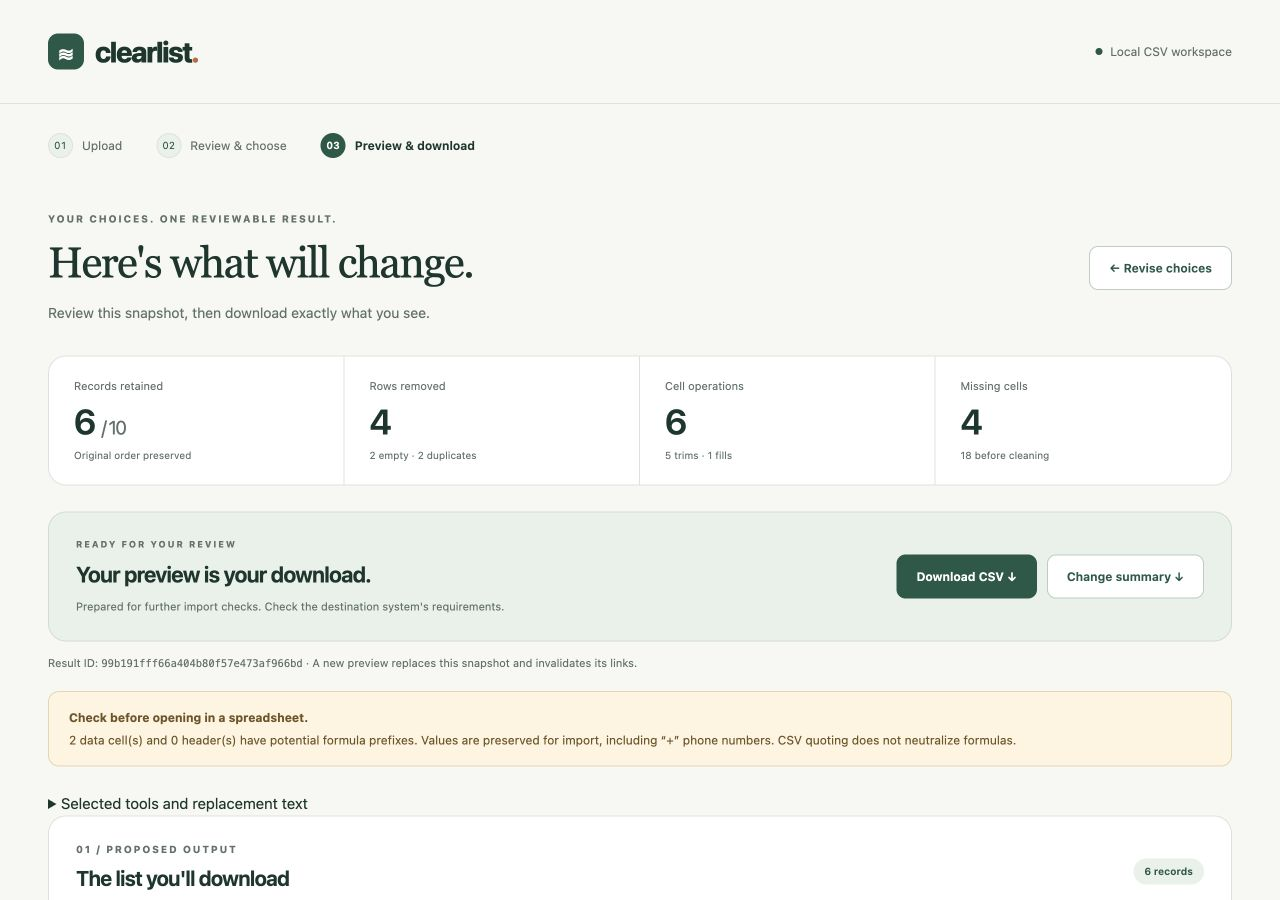
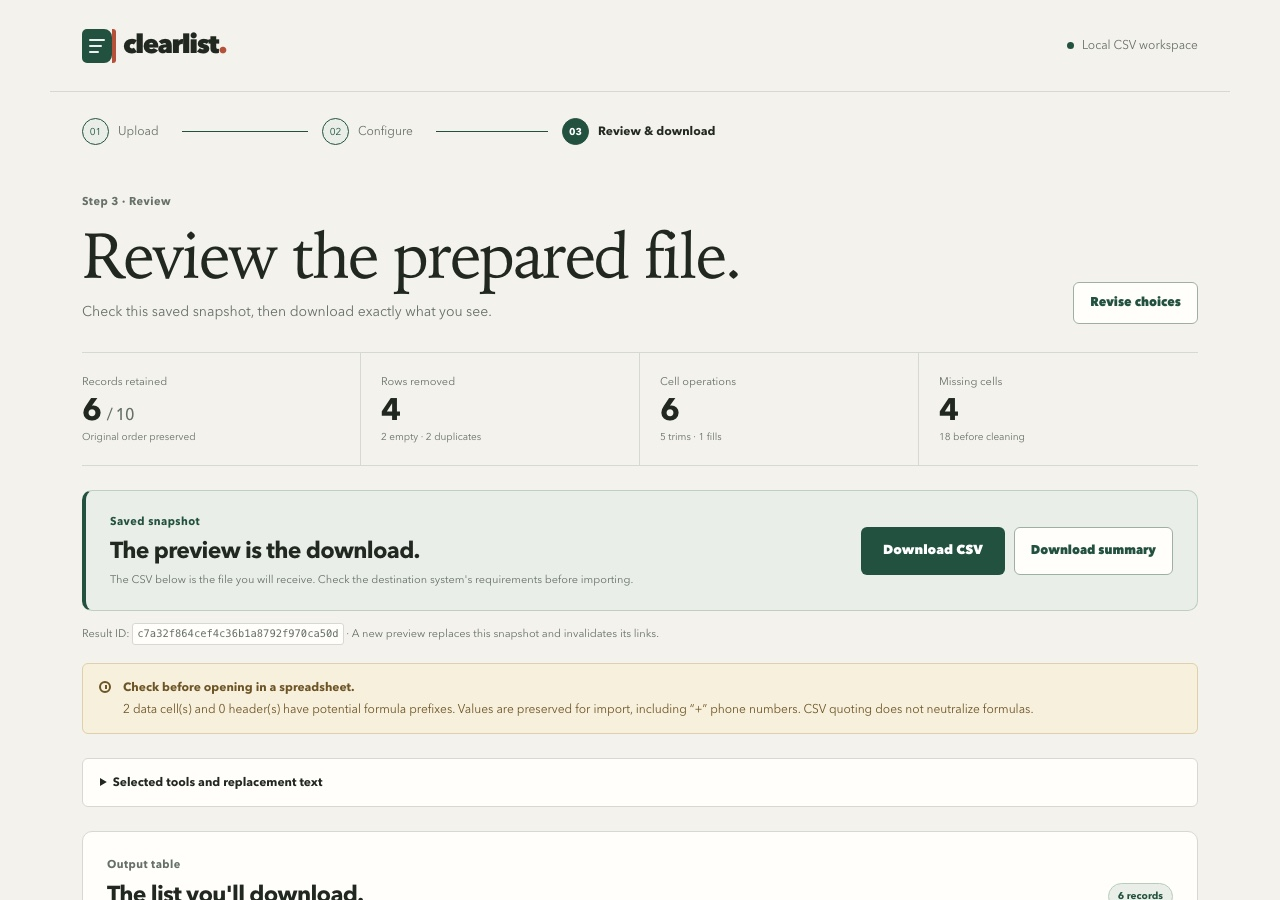
docs: update submission walkthrough and AI development record

diff --git a/README.md b/README.md
@@ -1,95 +1,146 @@
-# Clearlist
+# ClearList
 
-A small Python application for small-business administrators preparing customer CSVs for a system import. Inspect missing values and exact duplicates, choose corrections, review the proposed changes, then download the exact CSV you previewed.
+ClearList is a small Python/Flask utility for business administrators who need to prepare a customer CSV before importing it into another system. It shows the original file first, lets the administrator choose a small set of deterministic cleaning operations, and presents the exact saved result before download.
 
-Built as a focused software engineering work sample. All bundled customer records are fictional. AI assisted development; the running application does not use AI, send CSVs to external services, or need API keys.
+The product is deliberately local-first and reviewable:
 
-![The sample's reviewed result: six retained records, four removed rows, and matching CSV/summary downloads.](docs/screenshots/preview-desktop.jpg)
+- The original CSV stays intact in the session workspace.
+- Cleaning is explicit: no inferred corrections, fuzzy matching, or hidden normalization.
+- The preview is built from the saved output bytes that the download route serves.
+- The browser workflow is Upload → Configure → Review & download.
+- Bundled records are fictional. The running application does not call an LLM or send CSV content to an external service.
+
+## Intended user and problem
+
+A small-business administrator often receives a customer export with surrounding whitespace, blank rows, missing optional values, or exact duplicate records. They need a safe way to make bounded corrections without losing leading zeros, Unicode, embedded newlines, or an audit-friendly explanation of what changed.
+
+ClearList addresses that narrow problem with a temporary browser session, a visible original table, deterministic operations, a change log, removed-row reasons, and downloads tied to the reviewed result ID.
 
 ## Run with Docker
 
-Prerequisite: a running Docker installation. The initial build downloads the base image and dependencies.
+The supported runtime target is Linux through Docker. The image uses the pinned Python 3.12 base image, installs exact runtime dependencies, runs as UID/GID \`10001:10001\`, and keeps temporary request files in memory.
 
-```sh
+\`\`\`sh
 docker build -t csv-cleaner .
 docker run --rm --read-only -p 127.0.0.1:8000:8000 \
   --tmpfs /tmp:rw,noexec,nosuid,size=64m csv-cleaner
-```
+\`\`\`
 
-Open [http://localhost:8000](http://localhost:8000). Stop with Ctrl+C. No volumes or configuration are required. Port 8000 is published only to your computer; change the left-hand port if it is already in use.
+Open [http://localhost:8000](http://localhost:8000). Stop with Ctrl+C.
 
-The application has four optional operations, all off for a new upload:
+The test image runs the same checks used by CI:
+
+\`\`\`sh
+docker build --target test -t csv-cleaner-test .
+docker run --rm --read-only \
+  --tmpfs /tmp:rw,noexec,nosuid,size=64m csv-cleaner-test
+\`\`\`
+
+The current test stage runs Ruff lint, Ruff format verification, and pytest. It does not require a database, API key, volume, or external service.
+
+For a local Python environment, the equivalent commands are:
+
+\`\`\`sh
+python3.12 -m venv .venv
+.venv/bin/python -m pip install -r requirements-dev.lock
+.venv/bin/ruff check src tests
+.venv/bin/ruff format --check src tests
+.venv/bin/python -m pytest -q -p no:cacheprovider
+\`\`\`
+
+## Product workflow
+
+### 1. Upload
+
+Choose one UTF-8 comma-separated CSV with a header row. The fictional sample is available at [samples/fictional_customers.csv](samples/fictional_customers.csv).
+
+### 2. Configure
+
+ClearList reports records, columns, missing cells, fully empty rows, and exact duplicate extras. The original table remains visible while the administrator chooses:
 
 1. Remove fully empty rows.
 2. Trim surrounding whitespace in selected columns.
-3. Fill missing cells in selected columns with your own text.
-4. Remove exact duplicate rows, retaining the first occurrence after the preceding operations.
+3. Fill missing cells in selected columns with administrator-provided text.
+4. Remove exact duplicates after the selected transformations, retaining the first occurrence.
 
-The order is fixed. Empty rows are removed before replacements so they cannot become artificial customer records. Missing means `value.strip() == ""`; literal `NA`, `NULL`, and `0` are ordinary values. Matching is case-sensitive across every column. There is no fuzzy matching, type inference, or automatic phone/email normalization.
+All options start off. The fixed order is empty-row removal → trim → fill → duplicate removal.
 
-## Try the fictional example
+### 3. Review and download
 
-Download the sample from the home page or use [samples/fictional_customers.csv](samples/fictional_customers.csv).
+The preview shows:
 
-1. Upload it. The report should show **10 records, 6 columns, 18 missing cells, 2 fully empty rows, and 1 duplicate extra**.
-2. Select both row-removal options. Select trim for `name`, `email`, and `city`.
-3. Select fill missing for `city` and enter `Unknown`.
-4. Preview. Expect **6 records**, **2 empty rows removed**, **2 duplicate rows removed**, **5 trims**, **1 fill**, and **4 remaining missing cells**.
-5. Inspect the before/after cells and removed source numbers. The retained sources are **1, 2, 5, 6, 8, 9**. Notice that leading zeros, Chinese names, `NULL`, `NA`, a quoted comma, and an embedded newline survive.
-6. Download `cleaned.csv` and `summary.json`. Both belong to the displayed result ID. The summary includes the CSV's SHA-256 for an independent file check.
+- retained records and operation counts;
+- original versus proposed values with explicit Before/After labels;
+- missing-value counts before and after;
+- removed source rows and reasons;
+- formula-like warnings for spreadsheet review;
+- the saved result ID;
+- primary \`cleaned.csv\` and secondary \`summary.json\` downloads.
 
-Some fictional phone numbers start with `+`, so a conservative spreadsheet-formula warning is expected. Missing optional values remain unresolved: this tool prepares a file for further import checks, rather than certifying compatibility with an unspecified destination.
+A replaced upload, new preview, reset, expiry, or process restart invalidates older result links.
 
-## Data contract and limitations
+## Fictional sample walkthrough
 
-- One comma-separated UTF-8 `.csv`, optionally with a UTF-8 BOM and LF or CRLF record separators; the first record must contain unique, nonblank headers.
-- Maximum **2 MiB input, 10,000 data records, 50 columns**, **100,000 characters per cell/header**, **200 characters per replacement**, and **10 MiB output**. Request/form limits also apply.
-- Quoted commas, doubled quotes, embedded newlines, Unicode, header-only files, and blank records are supported. Blank records become fully empty records; they are not silently discarded.
-- Invalid encoding, quoting, NULs, duplicate/blank headers, and inconsistent row widths are rejected. No guessing of delimiter or encoding. A one-column file is valid, so an unsupported delimiter cannot always be distinguished from ordinary text; inspect the column preview.
-- All values remain strings. Headers, retained-record order, and column order are preserved. No generated index is exported. Source numbers refer to data records, not physical file lines.
-- Output uses UTF-8 without an added BOM, comma separation, standard quoting, and CRLF record separators. Embedded newline values are retained. Formatting need not be byte-identical to the original.
-- The original bytes/table are immutable. Changing options always starts from the original, never from a previously cleaned result.
-- Preview data is parsed from the saved CSV bytes. Downloads serve the saved bytes, without rerunning cleaning. A new preview, replacement upload, reset, expiry, or restart invalidates old links instead of silently returning another result.
-- Cell-operation counts describe sequential effects, including changes to rows subsequently removed. They are not counts of unique final cells changed.
-- Excel files, batch processing, destination schemas, inferred corrections, persistent histories, accounts, and hosted/multi-worker deployment are deliberately deferred.
+Use [samples/fictional_customers.csv](samples/fictional_customers.csv).
 
-### Privacy and spreadsheet precautions
+1. Upload it. The original report is **10 records, 6 columns, 18 missing cells, 2 fully empty rows, and 1 duplicate extra**.
+2. Enable **Remove fully empty rows** and **Remove exact duplicates**.
+3. Enable trim for \`name\`, \`email\`, and \`city\`.
+4. Enable fill for \`city\` and enter \`Unknown\`.
+5. Preview. The expected result is **6 retained records**, **2 empty rows removed**, **2 duplicate rows removed**, **5 trims**, **1 fill**, and **4 missing cells remaining**.
+6. Inspect the output table, change log, removed-row sources, and before/after missing counts.
+7. Download both files. The CSV and summary carry the same result identity; the summary records the CSV SHA-256.
 
-Data lives in a bounded, server-side memory store, separate for each browser session. The local deployment supports four active sessions and a 30-minute idle expiry. Expired entries are pruned on requests; a reset, replacement upload, or process restart clears associated state. Closing a tab alone does not immediately clear it. Cookies contain only random session/form identifiers, not customer rows. The Docker command places temporary request files in memory and makes the remaining filesystem read-only. No customer contents are logged by the application.
+The saved screenshots in [docs/screenshots/](docs/screenshots/) are actual Flask/Jinja renders of this fictional sample, not design mockups:
 
-Potential formula prefixes are flagged in headers and data, including replacement values. Values are **preserved**, including `+` phone numbers; quoting is not formula neutralization. Opening untrusted CSVs in spreadsheet software may interpret them as formulas. This export prioritizes import-value preservation, and does not claim a universally safe spreadsheet export. See [OWASP's explanation](https://owasp.org/www-community/attacks/CSV_Injection).
+- [Desktop preview](docs/screenshots/preview-desktop.jpg) — 1280×900.
+- [Mobile preview](docs/screenshots/preview-mobile.jpg) — 500×900. The local headless Chrome used for capture clamps below-500px requests to a 500px CSS viewport; the narrow browser workflow was also inspected separately.
 
-## Design
+## Data contract and limits
 
-```mermaid
-flowchart LR
-    A[Browser: upload and choices] --> B[Flask routes and validation]
-    B --> C[Python CSV engine]
-    C --> D[Immutable result snapshot]
-    D --> E[HTML preview and comparison]
-    D --> F[CSV and JSON downloads]
-    B <--> G[Bounded in-memory session store]
-```
+- UTF-8 CSV, optionally with a UTF-8 BOM; LF and CRLF record separators are accepted.
+- Unique, nonblank headers; comma delimiter; all values remain strings.
+- Maximum **2 MiB input**, **10,000 data records**, **50 columns**, **100,000 characters per cell/header**, **200 characters per replacement**, and **10 MiB generated output**.
+- Quoted commas, doubled quotes, embedded newlines, Unicode, header-only files, and blank physical records are supported.
+- Invalid encoding, NUL characters, malformed or overly strict quotes, duplicate/blank headers, inconsistent row widths, and over-limit fields are rejected.
+- Output is UTF-8 without an added BOM, comma-separated, standard quoted, and CRLF-terminated. It is parsed again before the result snapshot is stored.
+- Missing means \`value.strip() == ""\`; \`NA\`, \`NULL\`, \`0\`, and other literal tokens are ordinary values.
+- Duplicate matching is case-sensitive and uses every column after the selected operations.
+- Data lives in a bounded process-local session store with four active sessions and a 30-minute idle expiry. Closing a tab does not immediately clear it.
+- The intentional deployment limitation is one Gunicorn worker. Multi-worker hosting would require shared session storage and a different lifecycle design.
 
-- **Flask + Jinja + local CSS:** conventional form requests and server-rendered pages; no JavaScript framework or external assets.
-- **Standard-library CSV engine:** explicit string handling avoids unintended identifier or missing-token conversion; transformations are independently testable.
-- **Snapshot storage:** one upload and latest result per session. Downloads require the owning session and result ID. No-store response headers, template escaping, form protection, and fixed attachment names protect the workflow.
-- **One Gunicorn worker:** intentional because state is process-local. Scaling to multiple workers would require shared storage and a different lifecycle design. Restarting invalidates sessions; this is acceptable for a temporary local work sample.
-- **Docker:** pinned Python 3.12 image digest, exact runtime/test dependency versions, non-root user, a health check, and separate test/runtime build targets.
+Potential spreadsheet formula prefixes are flagged but preserved, including \`+\` phone numbers. CSV quoting does not neutralize formulas; see [OWASP's CSV injection explanation](https://owasp.org/www-community/attacks/CSV_Injection).
 
-The main code is in `src/csv_cleaner`: `engine.py` handles parsing/reporting/cleaning, `web.py` handles the browser workflow, and `state.py` owns temporary state. There is no database or separately supported REST API.
+## Architecture
 
-## Verify
+\`\`\`mermaid
+flowchart TD
+    Browser[Browser] --> Web[Flask blueprint<br/>web.py]
+    Web --> CSRF[Flask-WTF CSRF<br/>security headers]
+    Web --> Engine[CSV engine<br/>engine.py]
+    Web <--> Store[SessionStore<br/>state.py]
+    Engine --> Snapshot[PreviewResult<br/>saved output snapshot]
+    Store --> Snapshot
+    Snapshot --> Templates[Jinja templates<br/>HTML preview]
+    Snapshot --> Downloads[send_file<br/>cleaned.csv / summary.json]
+\`\`\`
 
-```sh
-docker build --target test -t csv-cleaner-test .
-docker run --rm --read-only --tmpfs /tmp:rw,noexec,nosuid,size=64m csv-cleaner-test
-```
+- \`engine.py\` parses CSV data, reports quality issues, applies the four operations, serializes output, and re-parses generated bytes.
+- \`web.py\` owns the upload/configure/preview/download workflow, form validation, pagination, CSRF, response headers, and result ownership checks.
+- \`state.py\` stores one immutable dataset and latest result per session key in a bounded process-local \`SessionStore\`.
+- Templates are server-rendered HTML; CSS is served locally. There is no JavaScript framework, client-side CSV parser, database, or runtime AI service.
 
-This runs Ruff checks and pytest. Tests use independently specified expected values and cover transformations, preservation, malformed input, output expansion, snapshot/download identity, session ownership, expiry/reset/replacement, pagination, form protection, and escaped HTML. The GitHub workflow runs those checks and a runtime health smoke test. The [initial implementation check passed](https://github.com/JeffYYH/clearlist/actions/runs/41126340381); check the Actions page for subsequent runs.
+## Verification
 
-For a running container, `GET /healthz` should return `{"status":"ok"}`. Follow the sample walkthrough above to inspect the actual browser layout and downloaded files. Automated checks do not replace that visual review.
+The current local verification baseline is:
 
-Desktop and [mobile](docs/screenshots/preview-mobile.jpg) review screenshots are included. The latest observed local verification completed **71 tests**, Ruff checks, a healthy non-root container with a read-only filesystem, and the browser sample workflow. Downloaded CSV and summary hashes/identities were also checked.
+- **83 pytest tests passed**.
+- Ruff lint passed.
+- Ruff format check passed.
+- \`git diff --check\` passed.
+- Browser workflow checked with the fictional sample, including desktop and narrow preview renders, changed cells, removed rows, warnings, downloads, keyboard focus progression, and table-region overflow behavior.
+- The GitHub Actions workflow at [.github/workflows/check.yml](.github/workflows/check.yml) builds the test image, runs the test stage, builds the runtime image, and smoke-checks \`/healthz\`.
 
-See [the AI-assisted workflow record](docs/ai-workflow.md) for decisions, observed checks, time accounting, and remaining submission steps.
+The documented Docker commands are the CI commands. A Docker daemon was unavailable during the latest local documentation pass, so no new local Docker run is claimed here.
+
+See [docs/ai-workflow.md](docs/ai-workflow.md) for the preserved development record, AI decisions, concurrency fix, test expansion, UI redesign, time accounting, and submission gaps.

diff --git a/docs/ai-workflow.md b/docs/ai-workflow.md
@@ -1,6 +1,6 @@
 # AI-assisted workflow
 
-This is a factual development record, not a claim of independent user authorship. AI generated implementation and tests under the candidate's direction. Times below distinguish observed session elapsed time from human active effort, which has not been measured.
+This is a factual development record, not a claim of independent user authorship. AI generated implementation and tests under the candidate's direction. Historical entries distinguish observed session elapsed time from human effort; the candidate later supplied a separate active-time estimate below.
 
 ## Direction and decisions
 
@@ -12,14 +12,14 @@ This is a factual development record, not a claim of independent user authorship
 
 ## Tools actually used
 
-Codex for planning and code generation; terminal tools for Python, pytest, Ruff, Docker, and Git; browser tools for UI inspection, uploads/downloads, and desktop/mobile screenshots; GitHub tools/API for private repository creation and CI verification; official Python/Flask/Flask-WTF/Docker documentation and OWASP guidance consulted through web tools. Exact model identifier was not recorded.
+Codex for planning and code generation; terminal tools for Python, pytest, Ruff, Docker, and Git; browser tools for UI inspection, uploads/downloads, and desktop/mobile screenshots; GitHub tools/API for repository metadata and CI verification; official Python/Flask/Flask-WTF/Docker documentation and OWASP guidance consulted through web tools. Exact model identifier was not recorded.
 
 ## Session log
 
 | Session / goal | Direction and evaluation | Approximate time | Observed result |
 |---|---|---|---|
 | Planning | Inspect the supplied brief and empty workspace; compare UI approaches; ask about scope and data semantics; define testable preservation/download guarantees. | Not measured | Plan reviewed and implementation requested. No implementation files existed before that request. |
-| Core implementation and verification, 2026-10-31 04:19–04:51 HKT | Implement engine, Flask pages, session-bound downloads, Docker packaging, fictional sample, focused tests, and initial publication. | About 31 minutes observed elapsed time, including tool/download/authentication waiting; human active time not measured. Final documentation follow-up not timed separately. | First local run: 69 passed, 1 failed because an assertion incorrectly expected literal quotes to be HTML-escaped. Corrected that assertion: 70 passed. Code review found a literal-BOM-in-header preservation case; fixed it and added a regression test: 71 passed. |
+| Core implementation and verification, 2026-10-31 04:19–04:51 HKT | Implement engine, Flask pages, session-bound downloads, Docker packaging, fictional sample, focused tests, and initial publication. | About 31 minutes observed elapsed time, including tool/download/authentication waiting; candidate active effort was not available at that time. Final documentation follow-up not timed separately. | First local run: 69 passed, 1 failed because an assertion incorrectly expected literal quotes to be HTML-escaped. Corrected that assertion: 70 passed. Code review found a literal-BOM-in-header preservation case; fixed it and added a regression test: 71 passed. |
 | Container and browser verification | Check the actual deployment settings and the administrator's workflow. | Part of the implementation session | First read-only Docker test failed because Ruff tried to cache inside `/app`. Moved its cache to `/tmp` and reran successfully. Browser upload/report/cleaning and both downloads checked. Desktop (1280 px) and mobile (390 px) screenshots inspected; mobile document width matched the viewport. |
 
 ## Verification record
@@ -32,13 +32,63 @@ Codex for planning and code generation; terminal tools for Python, pytest, Ruff,
 - Browser sample: 10 original records, 18 missing cells, 2 empty rows, 1 original duplicate extra; selected operations produced 6 records, 5 trims, 1 fill, 2 empty removals, 2 duplicate removals, and 4 missing cells remaining.
 - Both files were actually downloaded through the browser. Independently read the saved files and verified six records, preserved leading zeros/Chinese text/embedded newline, matching result ID, and matching CSV SHA-256.
 - Clean-checkout rehearsal: cloned the committed repository into a fresh temporary directory; built and ran the documented test target read-only (**71 passed in 0.59s**, Ruff checks passed), then built the runtime image from that checkout. The final runtime is Python **3.12.16** and passed its container health check.
-- Published [JeffYYH/clearlist](https://github.com/JeffYYH/clearlist) as **private**, as selected by the candidate. No reviewer invitations were sent because no reviewer accounts were supplied.
+- Published [JeffYYH/clearlist](https://github.com/JeffYYH/clearlist). An earlier record described the repository as **private**; the candidate later clarified that the work-sample repository should be publicly accessible. No reviewer invitations were sent because no reviewer accounts were supplied.
 - Observed [GitHub Check run 41126340381](https://github.com/JeffYYH/clearlist/actions/runs/41126340381) complete successfully for implementation commit `27c32c2`. That workflow builds the Docker test/runtime images, runs lint/format/tests, and starts the read-only runtime for an HTTP health smoke check. A subsequent documentation commit does not change the verified application source.
 
 ## Candidate review before submission
 
 - Follow the README walkthrough yourself and inspect both downloads.
 - Review the code and explain the choices in your own words, especially preservation, transformation order, formula warnings, and session limitations.
-- Add your own actual active-time estimate; do not present the agent's elapsed time as your human effort.
-- Grant reviewers access to the private repository and verify they can clone it. Owner access and private visibility were verified; reviewer access is not yet configured.
+- Use the candidate-provided active-time estimate below; do not present agent elapsed time as human effort.
+- Make the repository publicly accessible before submission, or grant the named reviewers access and verify they can clone it. The current GitHub visibility remains private and reviewer identities/access are not supplied.
 - Report remote CI as passed only after observing a completed run.
+
+## Subsequent implementation record
+
+The earlier record above is preserved. The following entries extend it with the later defect fix, test expansion, and visual redesign work.
+
+### Preview concurrency defect and resolution
+
+- The candidate asked for a race-condition investigation after identifying that the preview route read the session job twice. A replacement upload between those reads could pair an old result's source indexes with a new dataset and trigger a Jinja `UndefinedError`.
+- The fix introduced one owned `(job, result)` snapshot for the complete preview render. Session ownership, stale-result handling, pagination, and download result IDs stayed unchanged.
+- A deterministic regression test replaces the session job after the first lookup and asserts that the render uses one lookup and remains internally consistent. The same test was run against the original `HEAD` in a temporary worktree and reproduced the original template failure.
+- Commit: `cdf16db` (`fix: ensure consistent preview rendering under concurrent replacement`).
+
+### Boundary and property-based test expansion
+
+- Part A added exact and just-over input/output limits, maximum rows/columns/cell lengths, BOM and Unicode preservation, quote policy, line-ending coverage, no-op round trips, and output re-parsing checks.
+- Part B added a pinned development-only Hypothesis dependency with bounded tables, 75 examples, no persistent example database, and no runtime dependency change.
+- Commits: `a19f2b8` (`test: strengthen CSV boundary and preservation coverage`) and `5dced3e` (`test: add property-based CSV round-trip checks`).
+
+### UI direction and implementation
+
+- The candidate approved the Refined Editorial SaaS / File Spine direction after reviewing three options. The implementation uses local Flask/Jinja/CSS only, a paper/ink/forest/oxide token system, a semantic three-step workflow, a deliberate upload panel, ruled fact strips, table-region scrolling, visible focus states, and explicit Before/After values.
+- The first visual redesign commit covered shared shell, Home, Configure, Preview, Error, and responsive styling: `d5e9002` (`feat: redesign ClearList editorial interface`).
+- Upload/configuration responsive and focus refinements followed in `5a8d9cc` (`style: redesign upload and configuration experience`). Preview comparison, download hierarchy, empty states, removed-row reasons, pagination controls, keyboard-scrollable literals, error recovery copy, and focused template assertions followed in `c24fe25` (`style: refine preview comparison and accessibility`).
+
+## Current verification record
+
+- Current local baseline after the UI and documentation work: **83 pytest tests passed**, Ruff lint passed, Ruff format check passed, and `git diff --check` passed.
+- The focused template test checks Before/After labels, primary/secondary download links, removed-row reasons, table column scopes, and error recovery copy.
+- Actual browser inspection used the packaged fictional sample only. Desktop and narrow Preview screenshots were captured from Flask/Jinja output with the local stylesheet; the screenshot files in `docs/screenshots/` are not mockups. Browser checks covered changed cells, removed rows, warnings, downloads, keyboard focus progression, narrow table regions, and 500/768/1280/1440 layout width measurements.
+- A Docker daemon was unavailable during the latest documentation pass. The Docker commands and workflow remain documented and unchanged; no new Docker result is claimed here.
+
+## Candidate-provided active-time estimate
+
+The candidate supplied this estimate; it is not inferred from agent elapsed time:
+
+- Thinking through the topic: **30 minutes**.
+- Discussing possibilities with AI: **20 minutes**.
+- Writing prompts: **15 minutes**.
+- Reviewing outputs: **1 hour**.
+- Modification and testing: **1.5 hours**.
+- Total candidate active-time estimate: **3 hours 35 minutes**.
+
+Agent/tool elapsed time is kept separate. The historical session table contains observed elapsed intervals for earlier sessions, but no normalized aggregate agent-time figure is claimed for the full project.
+
+## Submission details still requiring candidate action
+
+- The work-submission brief requires a repository accessible to reviewers. The candidate clarified that it should be public.
+- A GitHub repository metadata check on 2026-11-03 reported `JeffYYH/clearlist` visibility as **private**. Public conversion or an explicitly verified reviewer-access arrangement is still outstanding.
+- Reviewer accounts or usernames were not supplied, so reviewer permission and clone access cannot be verified here.
+- No claim is made about availability, interview scheduling, or reviewer access beyond the facts above.
